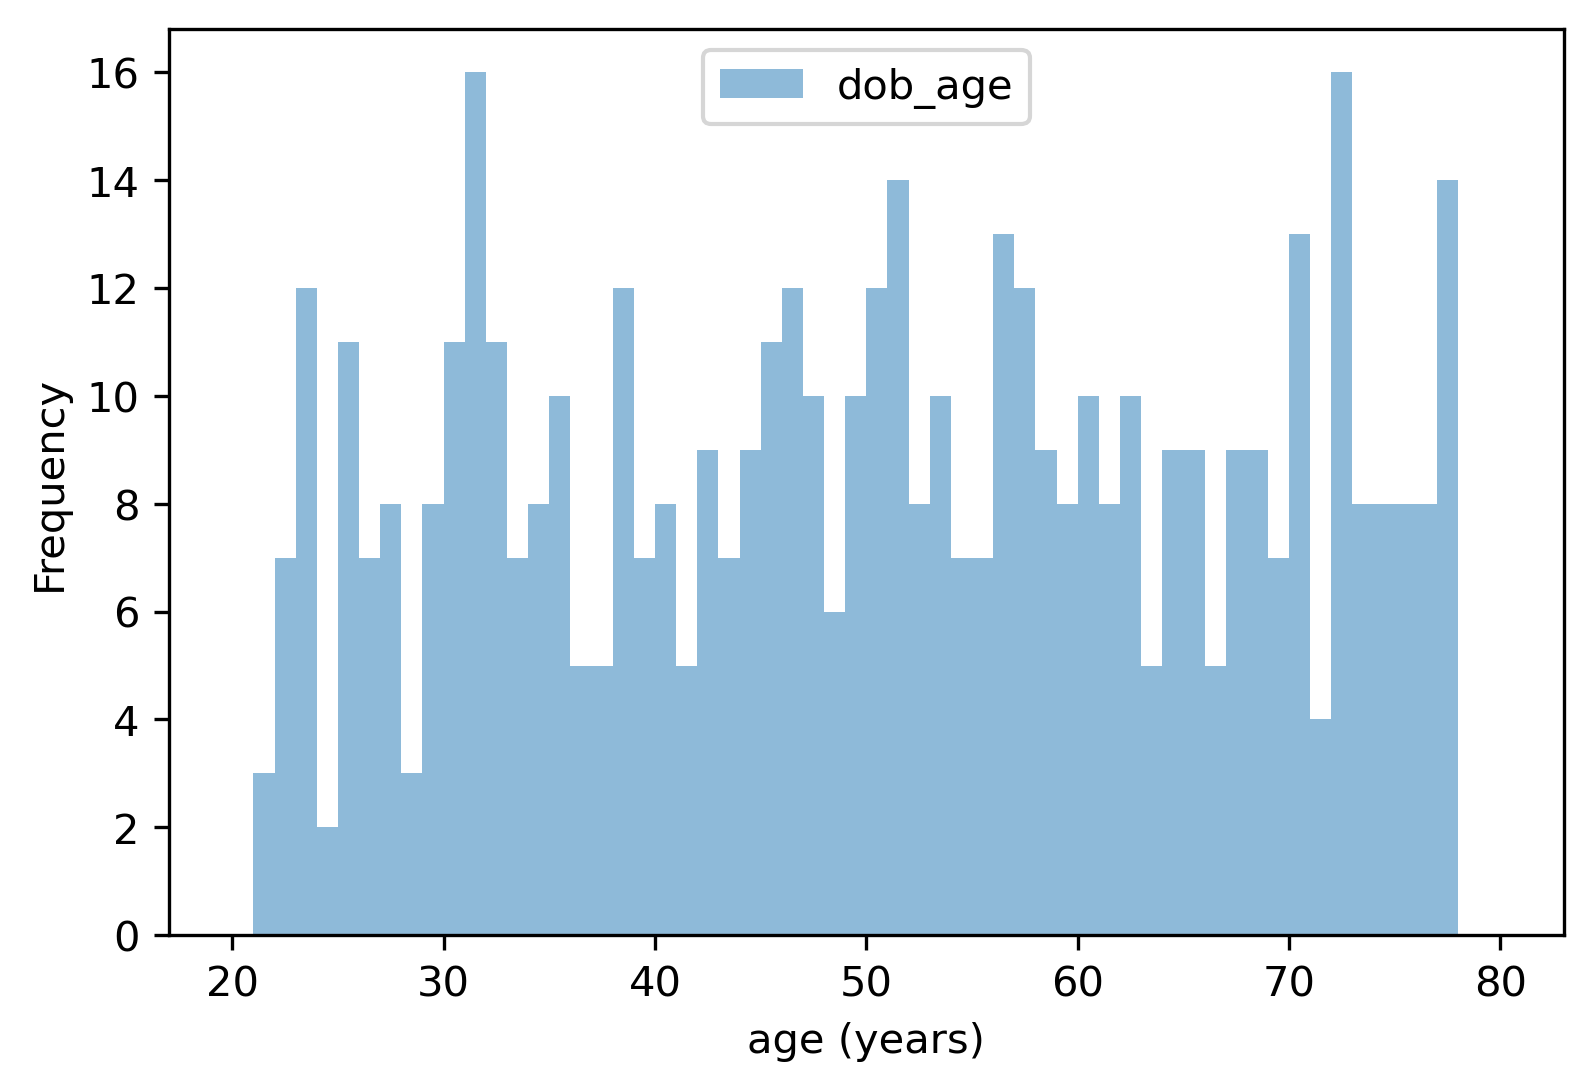
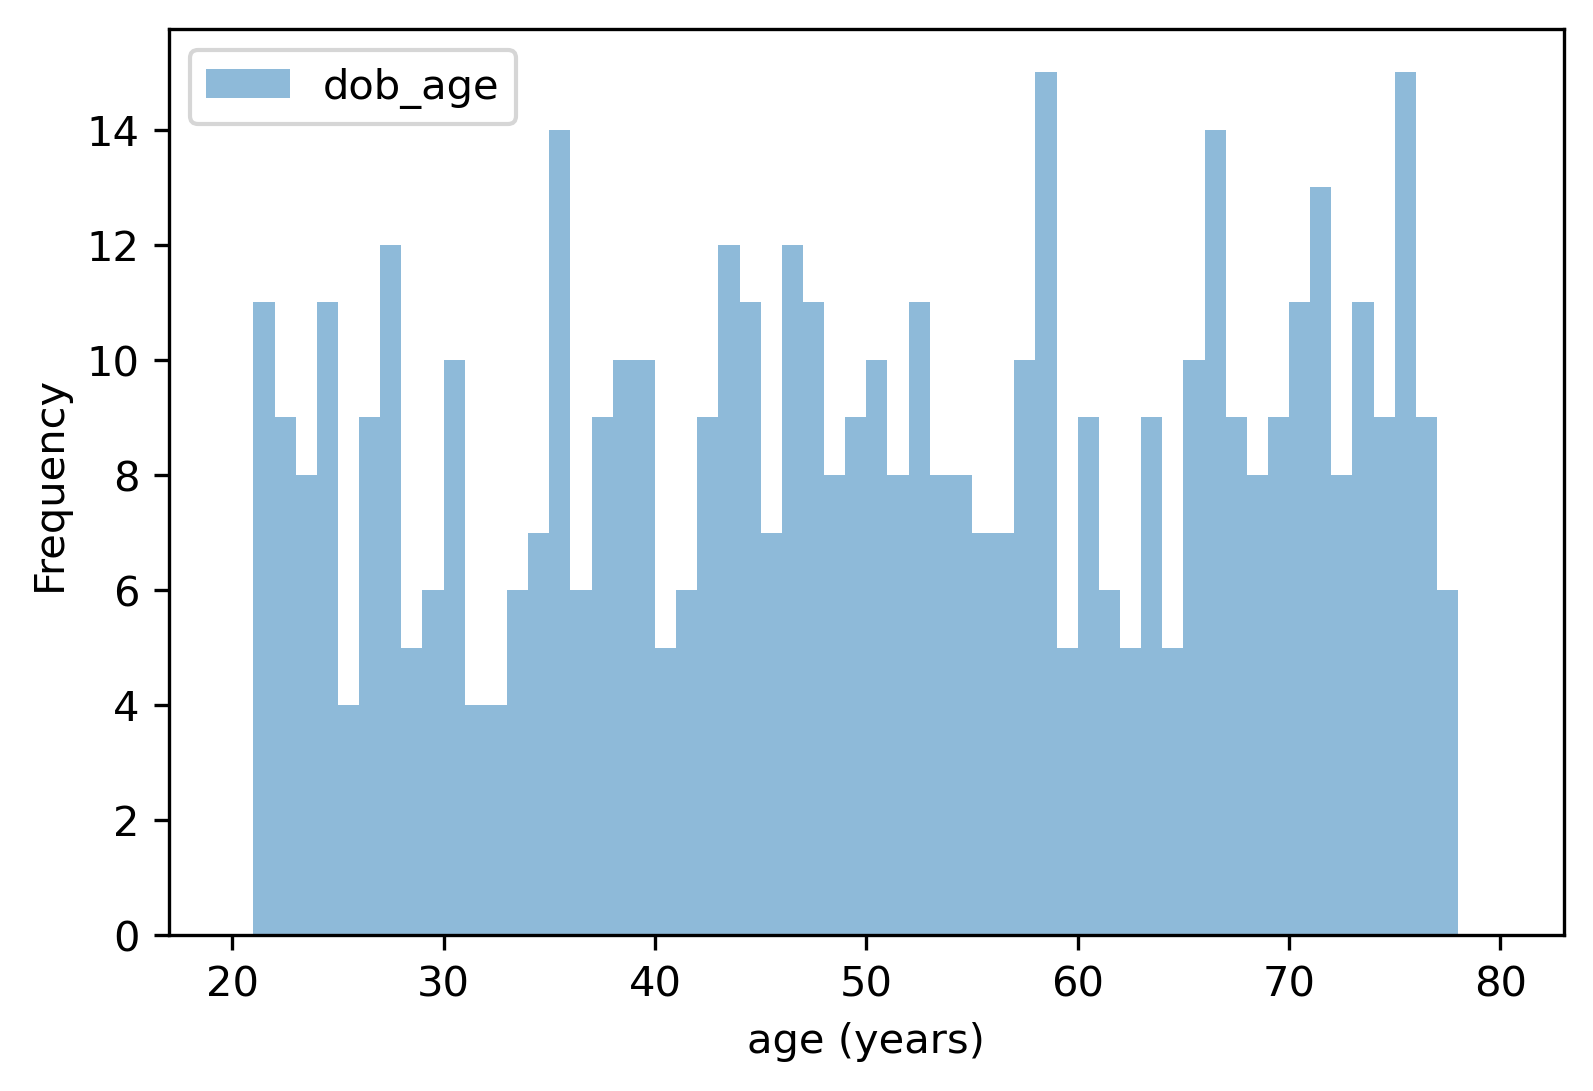
Atualização 23.09

diff --git a/etapa7.py b/etapa7.py
@@ -1,0 +1,51 @@
+# %%
+
+# Aquecimento para a Formação em Infraestrutura de Dados | Escritório de Dados
+
+# Etapa 7: Parametrizando seu código ⚙
+
+# Rodrigo Abreu Carvalho
+
+""" 
+Objetivo: nessa etapa, você deve parametrizar seu código para que ele seja 
+executado com valores diversos fornecidos pelo usuário.
+
+Descrição da solução: a solução dessa etapa consiste em uma função principal 
+que recebe diversos parâmetros e executa as diversas etapas descritas 
+anteriormente em função dos parâmetros fornecidos. Note que essa etapa é 
+crucial para que seu código se torne reutilizável.
+
+Dicas:
+Tente pensar no maior número de parâmetros que sejam relevantes para sua 
+pipeline de dados, sem afetar sua funcionalidade.
+
+Colocar valores padrão para alguns desses parâmetros reduz o ônus do usuário 
+de preenchê-los por conta própria.
+
+"""
+from pyhive import hive
+
+import matplotlib.pyplot as plt
+
+import requests
+
+import json
+
+import csv
+
+import pandas 
+
+def my_function(n = 500, min_age = 20, max_age = 80, bins = 60, dpi = 300):
+    url = "https://randomuser.me/api/?format=csv&results=" + str(n)
+    table = pandas.read_csv(url)
+    table.columns = table.columns.str.replace('\.', '_')
+    with open("etapa7.txt", "a") as f:
+        print((table.groupby('gender')['gender'].count() / len(table.index) * 100), file=f)
+        print((table.groupby('nat')['nat'].count() / len(table.index) * 100), file=f)
+    table.plot.hist(column=['dob_age'], bins = 60, range=(min_age, max_age), alpha=.5).set_xlabel('age (years)')
+    plt.savefig('hist7.png', dpi = dpi, bbox_inches = 'tight')
+ 
+my_function(min_age = 40, max_age = 80, bins = 40,)
+
+
+# %%

diff --git a/etapa6.py b/etapa6.py
@@ -1,0 +1,42 @@
+
+# Aquecimento para a Formação em Infraestrutura de Dados | Escritório de Dados
+
+# Etapa 6 (opcional): Particionando dados 🎼
+
+# Rodrigo Abreu Carvalho
+
+""" 
+Objetivo: realizar o particionamento dos dados em formato Hive¹ utilizando as 
+informações de país e estado de cada usuário.
+
+Descrição da solução: uma função que recebe, como parâmetro, um pandas.DataFrame 
+e salva todos os dados em arquivos CSV particionados por país e estado.
+
+¹. The Apache Hive ™ data warehouse software facilitates reading, writing, and 
+managing large datasets residing in distributed storage using SQL. Structure 
+can be projected onto data already in storage. A command line tool and JDBC 
+driver are provided to connect users to Hive.
+
+"""
+
+from pyhive import hive
+
+import requests
+
+import json
+
+import csv
+
+import pandas 
+
+conn = hive.Connection(host='192.168.1.196', port='10000', database='default', auth='NONE')
+
+
+def my_function(n):
+    urln = "https://randomuser.me/api/?inc=gender,location,dob&format=csv&results=" + str(n)
+    table = pandas.read_csv(urln)
+    table = table.groupby(['location.state', 'location.country'])[['dob.age']].mean()
+    print(table)
+
+my_function(n = 500)
+

diff --git a/etapa5.py b/etapa5.py
@@ -1,0 +1,35 @@
+
+# Aquecimento para a Formação em Infraestrutura de Dados | Escritório de Dados
+
+# Etapa 5: Analisando dados com agrupamento 📊
+
+# Rodrigo Abreu Carvalho
+
+""" 
+Objetivo: utilizar técnicas de agrupamento para descobrir usuários que moram 
+no mesmo país e estado. 
+
+Descrição da solução: uma função que recebe, como parâmetro, um pandas.DataFrame 
+e retorna um pandas.DataFrame com as mesmas colunas, mas com os dados agrupados 
+por país e estado. 
+
+"""
+
+import requests
+
+import json
+
+import csv
+
+import pandas 
+
+def my_function(n):
+    urln = "https://randomuser.me/api/?inc=gender,location,dob&format=csv&results=" + str(n)
+    table = pandas.read_csv(urln)
+    table = table.groupby(['location.state', 'location.country'])[['dob.age']].mean()
+    print(table)
+
+my_function(n = 500)
+  
+
+

diff --git a/etapa4.py b/etapa4.py
@@ -42,8 +42,7 @@ def my_function(url, n):
         print((table.groupby('gender')['gender'].count() / len(table.index) * 100), file=f)
         print((table.groupby('nat')['nat'].count() / len(table.index) * 100), file=f)
     table.plot.hist(column=['dob_age'], bins = 60, range=(20, 80), alpha=.5).set_xlabel('age (years)')
-    plt.savefig('plot.png', dpi=300, bbox_inches='tight')
-
+    plt.savefig('hist4.png', dpi=300, bbox_inches='tight')
  
 my_function(url = "https://randomuser.me/api/?format=csv", n = 500)
 
